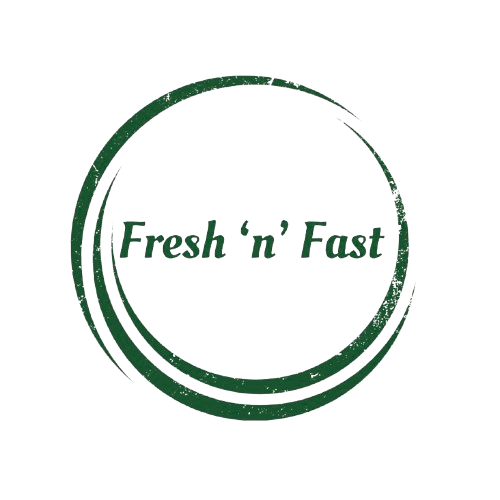
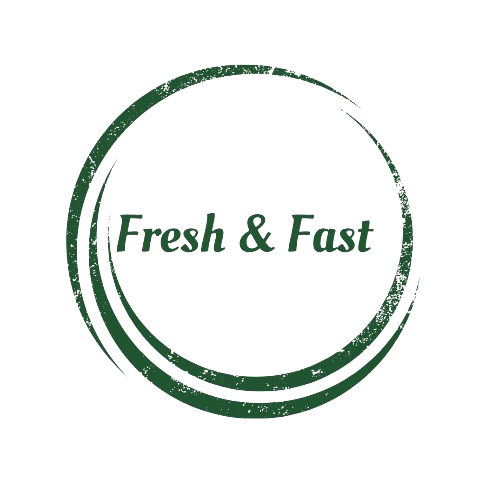
update

Changed region(s): [[0.12, 0.12, 0.84, 0.84]]

diff --git a/src/pages/ClientStatementsPage.tsx b/src/pages/ClientStatementsPage.tsx
@@ -1010,8 +1010,11 @@ const ClientStatementsPage: React.FC = () => {
           <div style={{ display: 'flex', justifyContent: 'space-between', alignItems: 'center', borderBottom: '3px double #01562c', paddingBottom: isSummaryPrint ? '0.75rem' : '1.5rem', marginBottom: isSummaryPrint ? '1rem' : '2rem' }}>
             <div>
               <div style={{ display: 'flex', alignItems: 'center', gap: '12px' }}>
-                <img src="/logo_fnf.png" alt="Fresh & Fast Logo" style={{ height: '40px', objectFit: 'contain' }} />
-                <h1 style={{ fontSize: '32px', color: '#01562c', margin: 0, fontWeight: 900, letterSpacing: '-1px' }}>Fresh & Fast</h1>
+                <img src="/logo_new.jpeg" alt="Fresh & Fast Logo" style={{ height: '40px', objectFit: 'contain' }} />
+                <div style={{ display: 'flex', flexDirection: 'column', justifyContent: 'center' }}>
+                  <h1 style={{ fontFamily: '"Oleo Script", cursive', fontSize: '32px', color: '#01562c', margin: 0, fontWeight: 700, letterSpacing: '0px', lineHeight: '1' }}>Fresh & Fast</h1>
+                  <span style={{ fontSize: '13px', color: '#01562c', fontWeight: 600, letterSpacing: '0.5px', marginTop: '2px' }}>Restuarant Company</span>
+                </div>
               </div>
             </div>
             <div style={{ textAlign: isRTL ? 'left' : 'right' }}>
@@ -1204,14 +1207,14 @@ const ClientStatementsPage: React.FC = () => {
             <div style={{ textAlign: 'center', width: '220px' }}>
               <div style={{ borderBottom: '1.5px dashed #cbd5e1', height: '120px', marginBottom: '10px' }} />
               <p style={{ margin: 0, fontWeight: 700 }}>{language === 'ar' ? 'توقيع العميل المستلم' : 'Recipient Customer Sign'}</p>
-              <p style={{ margin: '2px 0 0 0', fontSize: '10px', color: '#94a3b8' }}>Fresh & Fast Partner Network</p>
+              <p style={{ margin: '2px 0 0 0', fontSize: '10px', color: '#94a3b8' }}>Fresh & Fast<br />Restaurant company</p>
             </div>
             <div style={{ textAlign: 'center', width: '280px', position: 'relative' }}>
-              <div style={{ borderBottom: '2px dashed #cbd5e1', height: '120px', marginBottom: '10px', display: 'flex', justifyContent: 'center', alignItems: 'flex-end', paddingBottom: '5px', position: 'relative' }}>
-                <img src="/withoutgroung_stamp.png" alt="Stamp" style={{ position: 'absolute', height: '140px', objectFit: 'contain', mixBlendMode: 'multiply', opacity: 0.85, bottom: '-15px', right: '40px', zIndex: 1, transform: 'rotate(-5deg)' }} />
-                <img src="/withoutgroung_sign.png" alt="Signature" style={{ position: 'relative', height: '100px', objectFit: 'contain', mixBlendMode: 'multiply', marginBottom: '0px', zIndex: 2, transform: 'rotate(2deg)' }} />
+              <div style={{ borderBottom: '2px dashed #cbd5e1', height: '120px', marginBottom: '10px', position: 'relative' }}>
+                <img src="/withoutgroung_stamp.png" alt="Stamp" style={{ position: 'absolute', height: '150px', objectFit: 'contain', mixBlendMode: 'multiply', opacity: 0.85, bottom: '-65px', right: '65px', zIndex: 1, transform: 'rotate(-5deg)', pointerEvents: 'none' }} />
+                <img src="/withoutgroung_sign.png" alt="Signature" style={{ position: 'absolute', height: '170px', objectFit: 'contain', mixBlendMode: 'multiply', bottom: '-15px', right: '35px', zIndex: 2, transform: 'rotate(-2deg)', pointerEvents: 'none' }} />
               </div>
-              <p style={{ margin: 0, fontWeight: 800, fontSize: '16px', color: '#334155' }}>{language === 'ar' ? 'توقيع معتمد' : 'Authorized Signature'}</p>
+              <p style={{ margin: 0, fontWeight: 800, fontSize: '16px', color: '#334155', position: 'relative', zIndex: 0 }}>{language === 'ar' ? 'توقيع معتمد' : 'Authorized Signature'}</p>
             </div>
           </div>
         </div>

diff --git a/index.html b/index.html
@@ -7,6 +7,9 @@
     <link rel="manifest" href="/manifest.json" />
     <meta name="theme-color" content="#16a34a" />
     <title>fresh'n'fastkw</title>
+    <link rel="preconnect" href="https://fonts.googleapis.com">
+    <link rel="preconnect" href="https://fonts.gstatic.com" crossorigin>
+    <link href="https://fonts.googleapis.com/css2?family=Oleo+Script:wght@400;700&display=swap" rel="stylesheet">
     <script>
       if ('serviceWorker' in navigator) {
         window.addEventListener('load', () => {